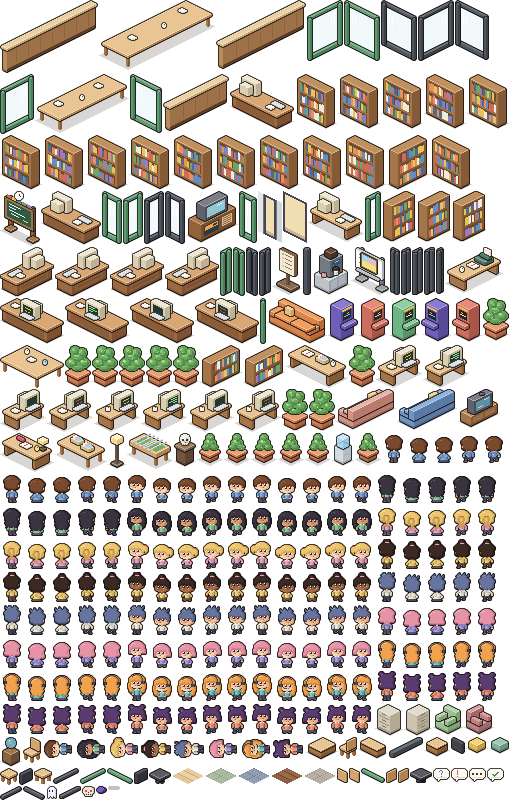
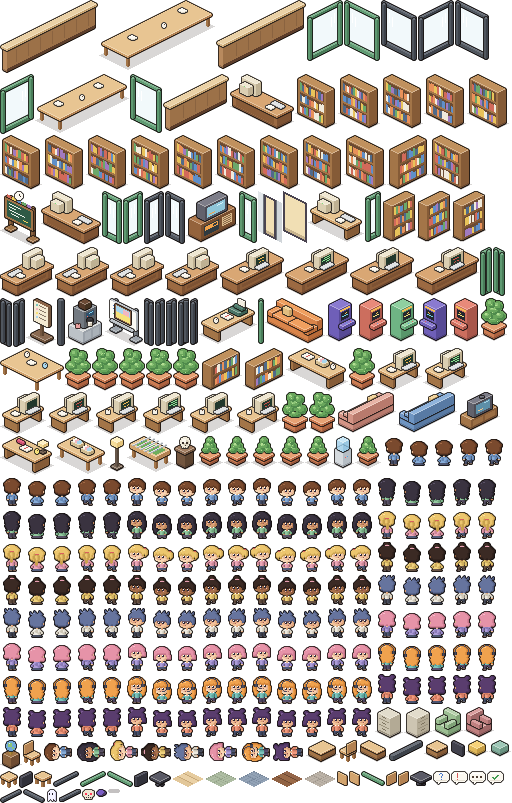
Adiciona o quadro da trilha na sala da Bonnie e gira a mesa da Emi
O quadro "Trilha de estudos" fica na parede do fundo da diretoria do andar de
estudos (clicável pela caixa, como o horário de aula). No andar de projeto, a
mesa da Emi, a cadeira dela e as duas cadeiras de visita giram 90° para a
esquerda: ela continua de frente para o monitor e as portas ficam livres.

Changed region(s): [[0.0, 0.0938, 1.0, 0.9375], [0.9062, 0.0938, 0.9688, 0.1562]]

diff --git a/test/estudos2d.test.ts b/test/estudos2d.test.ts
@@ -20,7 +20,7 @@ import { pngAlpha } from './png-alpha'
 
 const EST = estudosData as unknown as EstudosLayout
 const ATLAS = atlasData as unknown as { frames: Record<string, [number, number, number, number]> }
-const ACTS: StudyAct[] = ['library', 'cycle', 'desk', 'questions', 'cards', 'schedule', 'cora', 'bonnie']
+const ACTS: StudyAct[] = ['library', 'cycle', 'desk', 'questions', 'cards', 'schedule', 'trail', 'cora', 'bonnie']
 const tileOf = (c: { x: number; z: number }): [number, number] => [Math.floor(c.x), Math.floor(c.z)]
 
 describe('layout 2D do andar de estudos', () => {

diff --git a/scripts/pixel-art/scene_projeto.py b/scripts/pixel-art/scene_projeto.py
@@ -10,7 +10,7 @@ import furn2 as G
 from furn import T
 from floorkit import (GRAPHITE, W, D, new_layer, save2, Scene, region_floor, OAK, WALNUT, carpet_tiles, back_walls,
                       PROJECT_WALL, PART_H, WALL_H, draw_floor)
-from desks import ws_back, ws_back_y, ws_front_x
+from desks import ws_back, ws_front_x
 from chars import sprite
 
 SLATE = carpet_tiles(H('93a3b6'), H('8696aa'), H('76869a'))
@@ -25,10 +25,10 @@ ROOMS = [  # ry0, h, carpet, name, screen, coordinator, members (None = individu
 ]
 # the elevator door on the back wall (x0, x1) and the Emi desk (x, y, width)
 ELEVATOR = (268, 292)
-# turned twice to the right: Emi sits south of her desk facing the back wall (-y), the visitors north of it,
-# clear of the doors to the meeting room (west wall, rows 15-16) and to the lounge (back wall, x 320-336)
-EMI_DESK = (316, 196, 44)
-EMI_VISITORS = [(324, 180), (346, 180)]
+# turned once more, to the left: Emi sits east of her desk facing the west wall (-x) and her monitor, the
+# visitors west of it, clear of the doors to the meeting room (west wall, rows 15-16) and to the lounge (back wall, x 318-336)
+EMI_DESK = (322, 176, 44)
+EMI_VISITORS = [(304, 186), (304, 206)]
 # meeting chairs: (x, y, the way the sitter looks)
 MEETING_SEATS = [(200, cy, '+x') for cy in (170, 196, 222)] + [(242, cy, '-x') for cy in (170, 196, 222)]
 
@@ -131,7 +131,7 @@ def diretoria_back(sc):
 def diretoria_front(sc):
     L, add = sc.L, sc.add
     for vx, vy in EMI_VISITORS:
-        add((vx, vy, vx + 8, vy + 8), lambda vx=vx, vy=vy: F.wood_chair(L, vx, vy, '+y'))
+        add((vx, vy, vx + 8, vy + 8), lambda vx=vx, vy=vy: F.wood_chair(L, vx, vy, '+x'))
     add((366, 268, 376, 278), lambda: F.plant(L, 366, 268, seed=6), True)
     add((372, 150, 378, 156), lambda: F.lamp(L, 372, 150), True)
 
@@ -140,7 +140,7 @@ def diretoria(sc, people=True, state='green'):
     diretoria_walls(sc)
     diretoria_back(sc)
     x, y, w = EMI_DESK
-    ws_back_y(sc, x, y, 7 if people else None, state, 'papers', head='emi', boss=True, w=w)
+    ws_back(sc, x, y, 7 if people else None, state, 'papers', head='emi', boss=True, d_=w)
     diretoria_front(sc)
     sc.label('Diretoria · Emi', 336, 282)
 

diff --git a/scripts/pixel-art/export_app.py b/scripts/pixel-art/export_app.py
@@ -31,7 +31,7 @@ from floorkit import SW, SH, OX, OY, TS, W, D, WALL_H, PART_H, Scene, new_layer,
 import scene_projeto as P
 import scene_casa2 as C
 import scene_estudos as E
-from desks import ws_back, ws_back_y, ws_front_x, ws_front_y
+from desks import ws_back, ws_front_x, ws_front_y
 from chars import sprite, VARIANTS, palette
 
 APP = os.path.join(os.path.dirname(os.path.dirname(os.path.dirname(os.path.abspath(__file__)))),
@@ -320,8 +320,8 @@ def main():
     ex, ey, ew = P.EMI_DESK
     epx, epy = L.P(336, 282, 0)
     emi = {
-        'desk': desk('emi', lambda s, st: ws_back_y(s, ex, ey, None, st, 'papers', boss=True, w=ew)),
-        'seat': seat('emi', ex + ew // 2 - 5, ey + 16, '-y'),
+        'desk': desk('emi', lambda s, st: ws_back(s, ex, ey, None, st, 'papers', boss=True, d_=ew)),
+        'seat': seat('emi', ex + 16, ey + (ew - 26) // 2 + 3, '-x'),
         'plate': [epx, int(epy)],
     }
     mpx, mpy = L.P(232, 282, 0)
@@ -534,6 +534,8 @@ def estudos(L, place, items, seat):
 
     # the class schedule hangs on the west wall: drawn in the base, clicked by its box
     hot = [{'act': 'schedule', 'box': box(lambda: E.schedule(L))}]
+    # the study trail board hangs on the back wall of the diretoria, behind Bonnie: clicked by its box
+    hot.append({'act': 'trail', 'box': box(lambda: E.trail_board(L))})
     # half walls block the tiles they stand on, but their doors
     half = set()
     for axis, at, a, b, doors in sc.half:
@@ -565,6 +567,7 @@ def estudos(L, place, items, seat):
         'tags': {
             'Biblioteca': [72, 4, 40], 'Tópico atual': [126, 152, 46], 'Horário de aula': [0, 188, 46],
             'Questões': [163, 153, 34], 'Sua carteira': [148, 212, 26], 'Notas e cartões': [316, 212, 26],
+            'Trilha de estudos': [(E.TRAIL[0] + E.TRAIL[1]) / 2, 0, E.TRAIL[3] + 6],
         },
         'cora': seat('estudos/cora', cx + cw - 13, cy - 12, '+y'),
         'bonnie': seat('estudos/bonnie', bx + bw - 13, by - 12, '+y'),

diff --git a/scripts/pixel-art/scene_estudos.py b/scripts/pixel-art/scene_estudos.py
@@ -24,6 +24,8 @@ CORA_DESK = (104, 74, 40)
 BONNIE_DESK = (286, 50, 44)
 # Biblioteca: the nine topic shelves (five on the back wall, three in a row, one on the west wall)
 LIB_SHELVES = [(x, 0, x + 28, 8) for x in (6, 36, 66, 96, 126)] + [(x, 40, x + 28, 48) for x in (8, 38, 68)] + [(2, 58, 10, 86)]
+# Diretoria: the study trail board on the back wall, behind Bonnie (x0, x1, z0, z1)
+TRAIL = (268, 332, 14, 40)
 # Diretoria: the visitors' chairs in front of Bonnie's desk (x, y, the way the sitter looks)
 VISIT_SEATS = [(296, 72, '-y'), (316, 72, '-y')]
 # Sala dos professores: the boards on the west wall (y0, y1, z0, z1), the table, the filing cabinet
@@ -89,6 +91,10 @@ def corkboard(L):
     G.corkboard_x(L, 0, *CORKBOARD)
 
 
+def trail_board(L):
+    G.trail_board_y(L, 0, *TRAIL)
+
+
 def shell(L):
     """everything drawn straight on the layer, under every sorted item."""
     draw_floor(L, W, D, region_floor([((0, 0, 10.5, 6.5), parquet()), ((15, 0, 24, 6.5), WALNUT),
@@ -100,6 +106,7 @@ def shell(L):
     corkboard(L)
     F.frame_x(L, 0, *PICTURE)
     schedule(L)
+    trail_board(L)
     F.rug(L, 262, 160, 376, 278, H('a8505a'), H('843c46'), H('e8c0b0'))
 
 
@@ -286,6 +293,7 @@ def build():
     sc.label('Biblioteca', 84, 0, WALL_H + 2, dy=-6)
     sc.label('Cora · bibliotecária', 136, 66, 44)
     sc.label('Diretoria · Bonnie', 316, 100)
+    sc.label('Trilha de estudos', 300, 0, TRAIL[3] + 2, dy=-6)
     sc.label('Horário de aula', 0, 188, WALL_H + 2, dy=-6)
     sc.label('Sala dos professores', 52, 284)
     sc.label('Tópico atual', 126, 152, 50)

diff --git a/scripts/pixel-art/furn2.py b/scripts/pixel-art/furn2.py
@@ -171,6 +171,26 @@ def schedule_x(L, xp, y0, y1, z0, z1):
                 L.qx(xp, cy, cy + 4, rz, rz + 3, H(rnd.choice(cols)))
 
 
+def trail_board_y(L, yp, x0, x1, z0, z1):
+    """'Trilha de estudos' board on a back wall: a header strip, three lists of topic cards
+    (done in green, current in yellow, the rest in paper) joined by a dotted trail."""
+    L.begin(); L.qy(yp, x0 - 1, x1 + 1, z0 - 1, z1 + 1, H('6b4a32')); L.end()
+    L.qy(yp, x0, x1, z0, z1, H('fbf6ea'))
+    L.qy(yp, x0, x1, z1 - 4, z1, H('5f7fb4'))
+    cw = (x1 - x0 - 4) // 3
+    cards = [('b9e0a8', 'b9e0a8', 'b9e0a8'), ('b9e0a8', 'f6e27a', 'fbe9c8'), ('fbe9c8', 'fbe9c8', 'fbe9c8')]
+    for i, column in enumerate(cards):
+        cx = x0 + 2 + i * cw
+        L.qy(yp, cx, cx + cw - 2, z1 - 7, z1 - 5, H('a8b8d0'))
+        for j, c in enumerate(column):
+            rz = z1 - 12 - j * 6
+            if rz > z0:
+                L.qy(yp, cx + 1, cx + cw - 3, rz, rz + 4, H(c))
+    # the trail: a dotted line from the first card to the current one
+    for k in range(0, cw + 4, 3):
+        L.qy(yp, x0 + 4 + k, x0 + 5 + k, z0 + 2, z0 + 3, H('d65a5a'))
+
+
 def corkboard_x(L, xp, y0, y1, z0, z1):
     L.begin(); L.qx(xp, y0 - 1, y1 + 1, z0 - 1, z1 + 1, H('8a6448')); L.end()
     L.qx(xp, y0, y1, z0, z1, H('d4a36e'))
